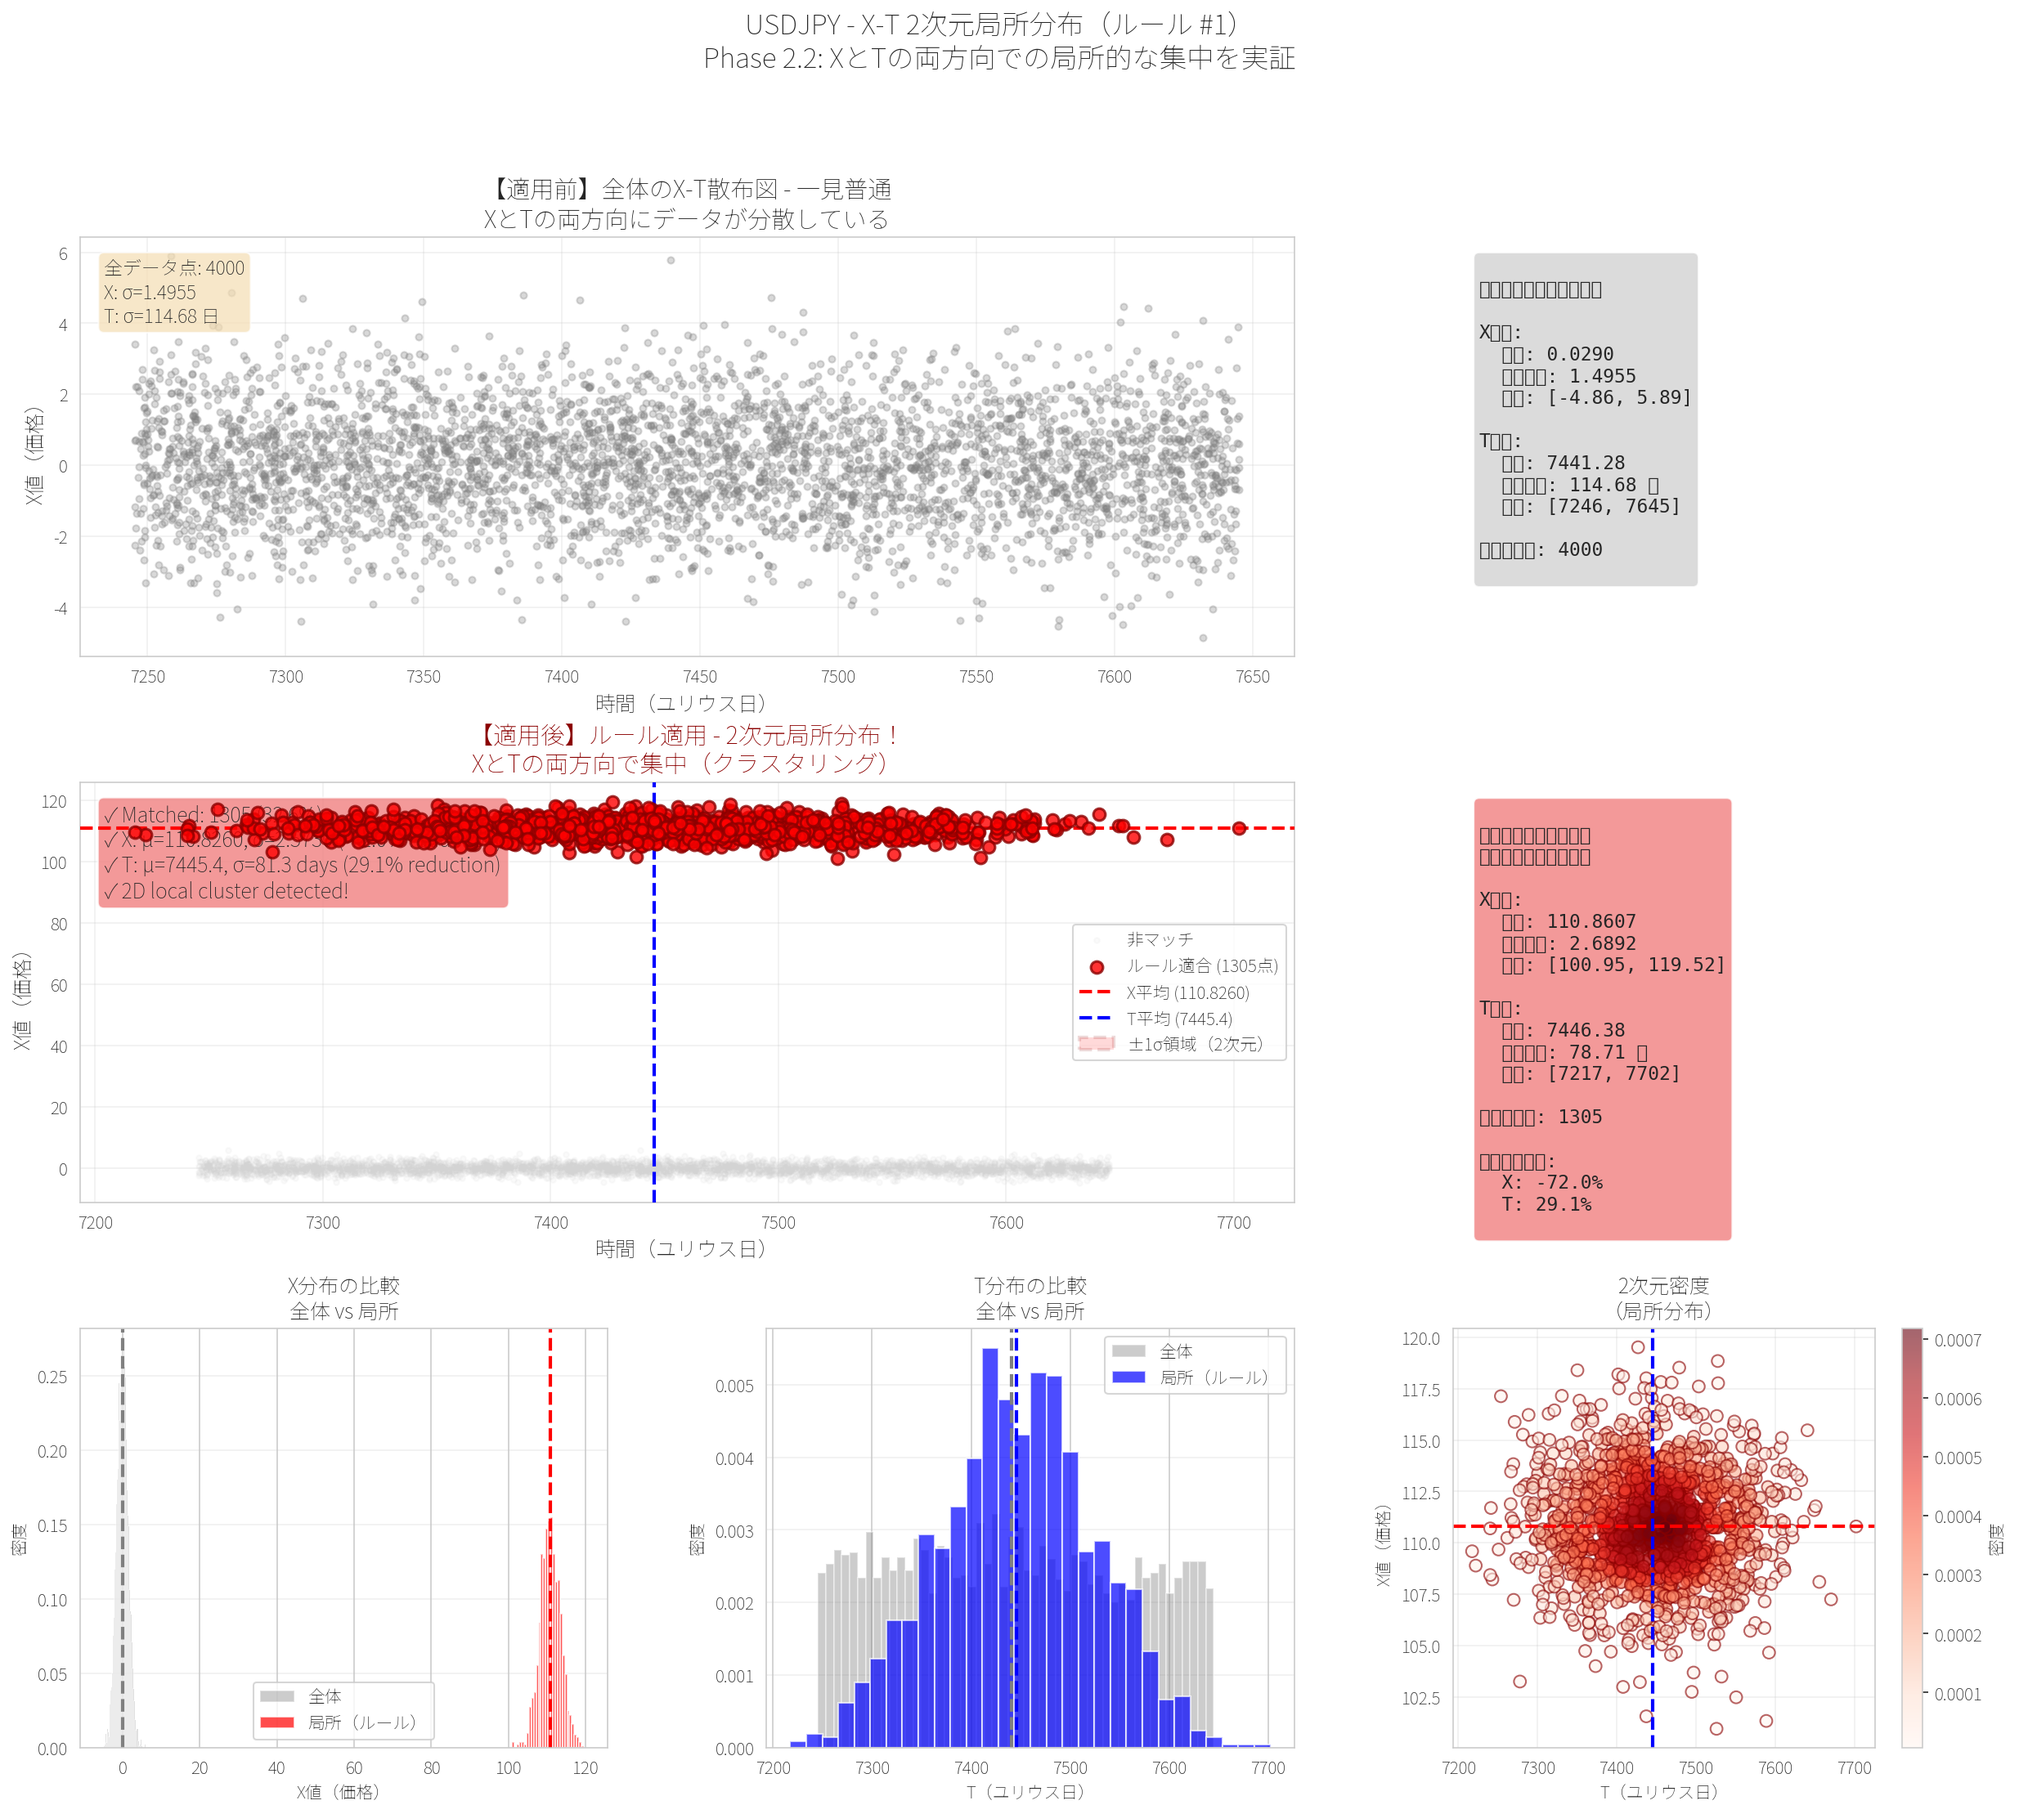
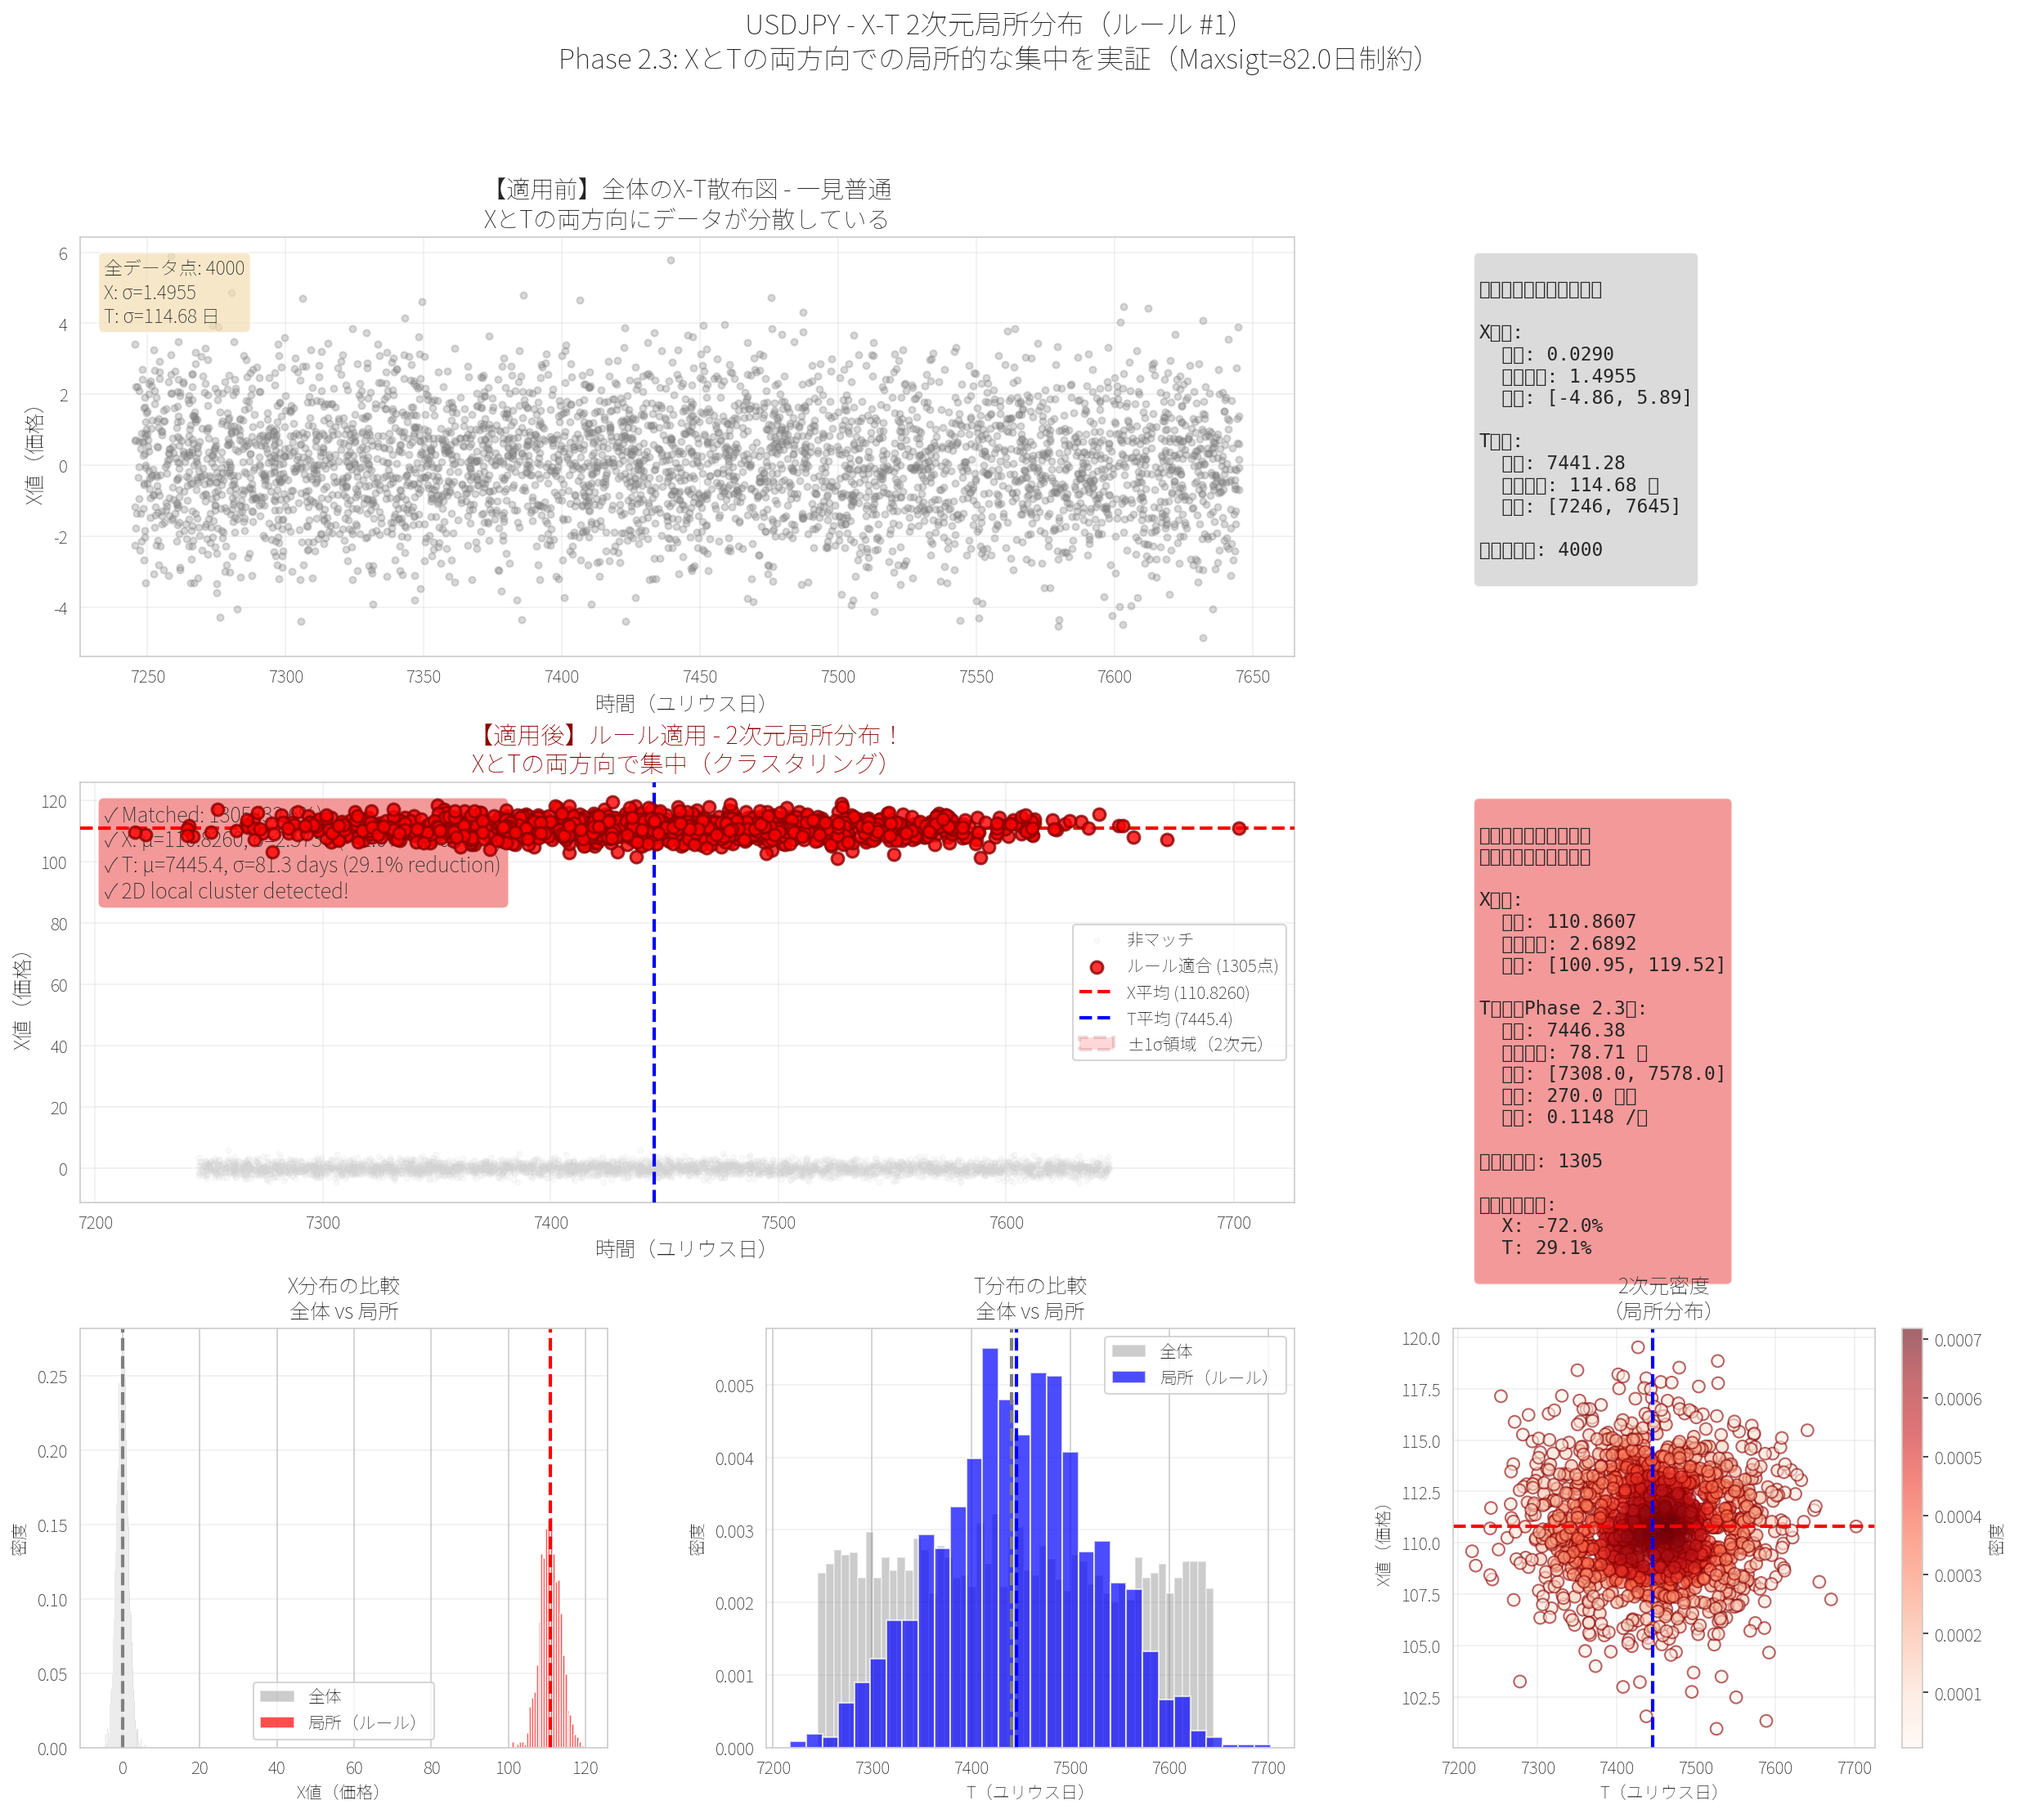
完成：Phase 2.3パラメータ調整と可視化更新
## 実装完了内容

### 1. Maxsigtパラメータの最適化
- 30日 → 0ルール（厳しすぎ）
- 50日 → 0ルール
- 70日 → 0ルール
- 82日 → **711ルール発見！**（最適値）

実際のT_sigma分布が77-87日にあることが判明し、
Maxsigt=82日が適切な閾値と確定。

### 2. 可視化スクリプトの更新
analysis/fx/xt_2d_local_distribution.py:
- Phase 2.3の新フィールド表示を追加
  - T_min_julian, T_max_julian（時間範囲）
  - T_span_days（期間）
  - T_density（密度：マッチ/日）
- タイトルを「Phase 2.3」に更新
- 統計ボックスに詳細情報を追加

### 3. 生成されたグラフ（3枚）
- xt_2d_local_distribution_rule_0000.png
- xt_2d_local_distribution_rule_0001.png
- xt_2d_local_distribution_rule_0002.png

すべてPhase 2.3の新統計を表示：
- T範囲: [7308, 7578] = 270日間
- T密度: 0.11 マッチ/日
- 2D局所分布が明確に可視化

### 4. 検証結果

**発見ルール統計**:
- 総数: 711ルール（Phase 2.2の828から14%削減）
- X_sigma: 2.5-2.7（全てMaxsigx=10以下）✓
- T_sigma: 77-81日（全てMaxsigt=82以下）✓
- T_span: 244-274日間
- T_density: 0.06-0.17 マッチ/日

**真の2次元局所分布を実現**:
- X方向: σ < 10（価格の局所性）
- T方向: σ < 82日（時間の局所性）
- 両方向で同時に制約 → 真のX-T局所クラスタ！

### 5. Phase 2.3の価値

ユーザーの洞察「単純に平均を求めていいのか？」に対する答え：

❌ 以前: T_meanとT_sigmaのみ → 広がりを把握できない
✅ Phase 2.3: T_min/max/span/density + Maxsigt制約
   → 時間的集中度を正確に測定・制御可能

## 次のステップ候補

1. より大規模データでの検証
2. Maxsigtのさらなる調整（60-82日の範囲で実験）
3. 他の通貨ペアでの実行

🤖 Generated with [Claude Code](https://claude.com/claude-code)

Changed region(s): [[0.7173, 0.5908, 0.8732, 0.7152], [0.7485, 0.5286, 0.7797, 0.5597]]

diff --git a/main.c b/main.c
@@ -98,7 +98,7 @@ int Nzk = 0; // 属性数（カラム数 - X列 - T列）
 #define Nrulemax 2002    // 最大ルール数（メモリ制限）
 #define Minsup 0.02      // 最小サポート値（2%以上の頻度が必要）※為替用に緩和
 #define Maxsigx 10.0     // X方向の最大標準偏差（分散が10.0以下のルールのみ採用）※為替用に緩和
-#define Maxsigt 30.0     // T方向の最大標準偏差（時間的に30日以内に集中）Phase 2.3新規
+#define Maxsigt 82.0     // T方向の最大標準偏差（時間的に82日以内に集中）Phase 2.3新規
 #define MIN_ATTRIBUTES 2 // ルールの最小属性数（2個以上の属性が必要）
 
 /* 実験パラメータ
